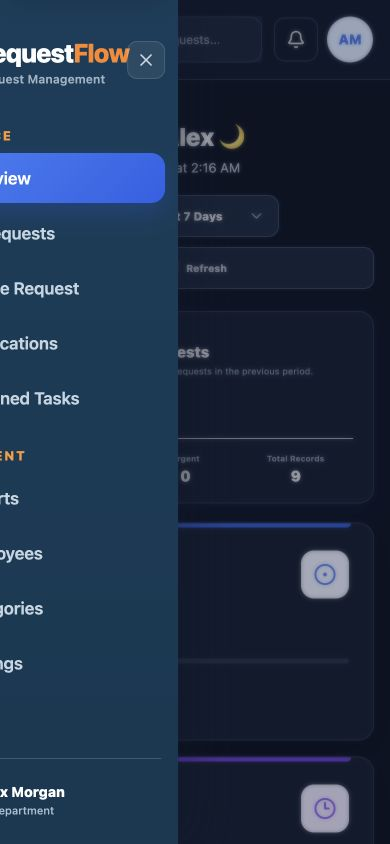
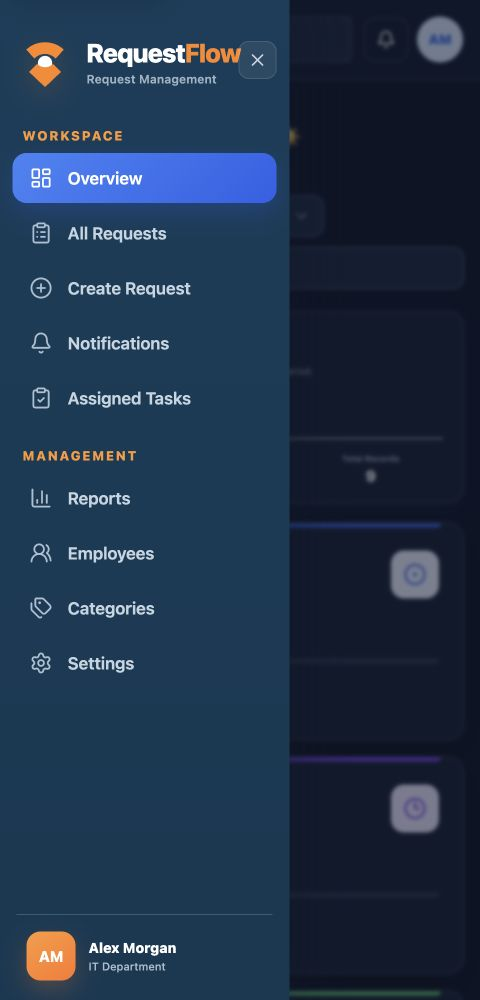
docs: replace README images with high-resolution captures (#11)

diff --git a/README.md b/README.md
@@ -24,17 +24,33 @@ RequestFlow is a full-stack, role-based request management system developed duri
 
 The gallery below uses local demo data and reflects the current application interface.
 
-| Sign In | All Requests |
-| --- | --- |
-| ![RequestFlow sign in](docs/screenshots/readme/01-login.png) | ![All requests](docs/screenshots/readme/03-all-requests.png) |
+### Sign In
 
-| Create Request | Edit Request and Autosave |
-| --- | --- |
-| ![Create request](docs/screenshots/readme/04-create-request.png) | ![Edit request autosave](docs/screenshots/readme/05-edit-autosave.png) |
+![RequestFlow sign in](docs/screenshots/readme/01-login.png)
 
-| Attachments and Activity | Employee Management |
-| --- | --- |
-| ![Request attachments and activity](docs/screenshots/readme/06-request-details.png) | ![Employee role management](docs/screenshots/readme/07-admin-management.png) |
+### Dashboard
+
+![RequestFlow dashboard](docs/screenshots/readme/02-dashboard.png)
+
+### All Requests
+
+![All requests](docs/screenshots/readme/03-all-requests.png)
+
+### Create Request
+
+![Create request](docs/screenshots/readme/04-create-request.png)
+
+### Edit Request and Autosave
+
+![Edit request autosave](docs/screenshots/readme/05-edit-autosave.png)
+
+### Attachments and Activity
+
+![Request attachments and activity](docs/screenshots/readme/06-request-details.png)
+
+### Employee Management
+
+![Employee role management](docs/screenshots/readme/07-admin-management.png)
 
 ### Reports and Analytics
 
